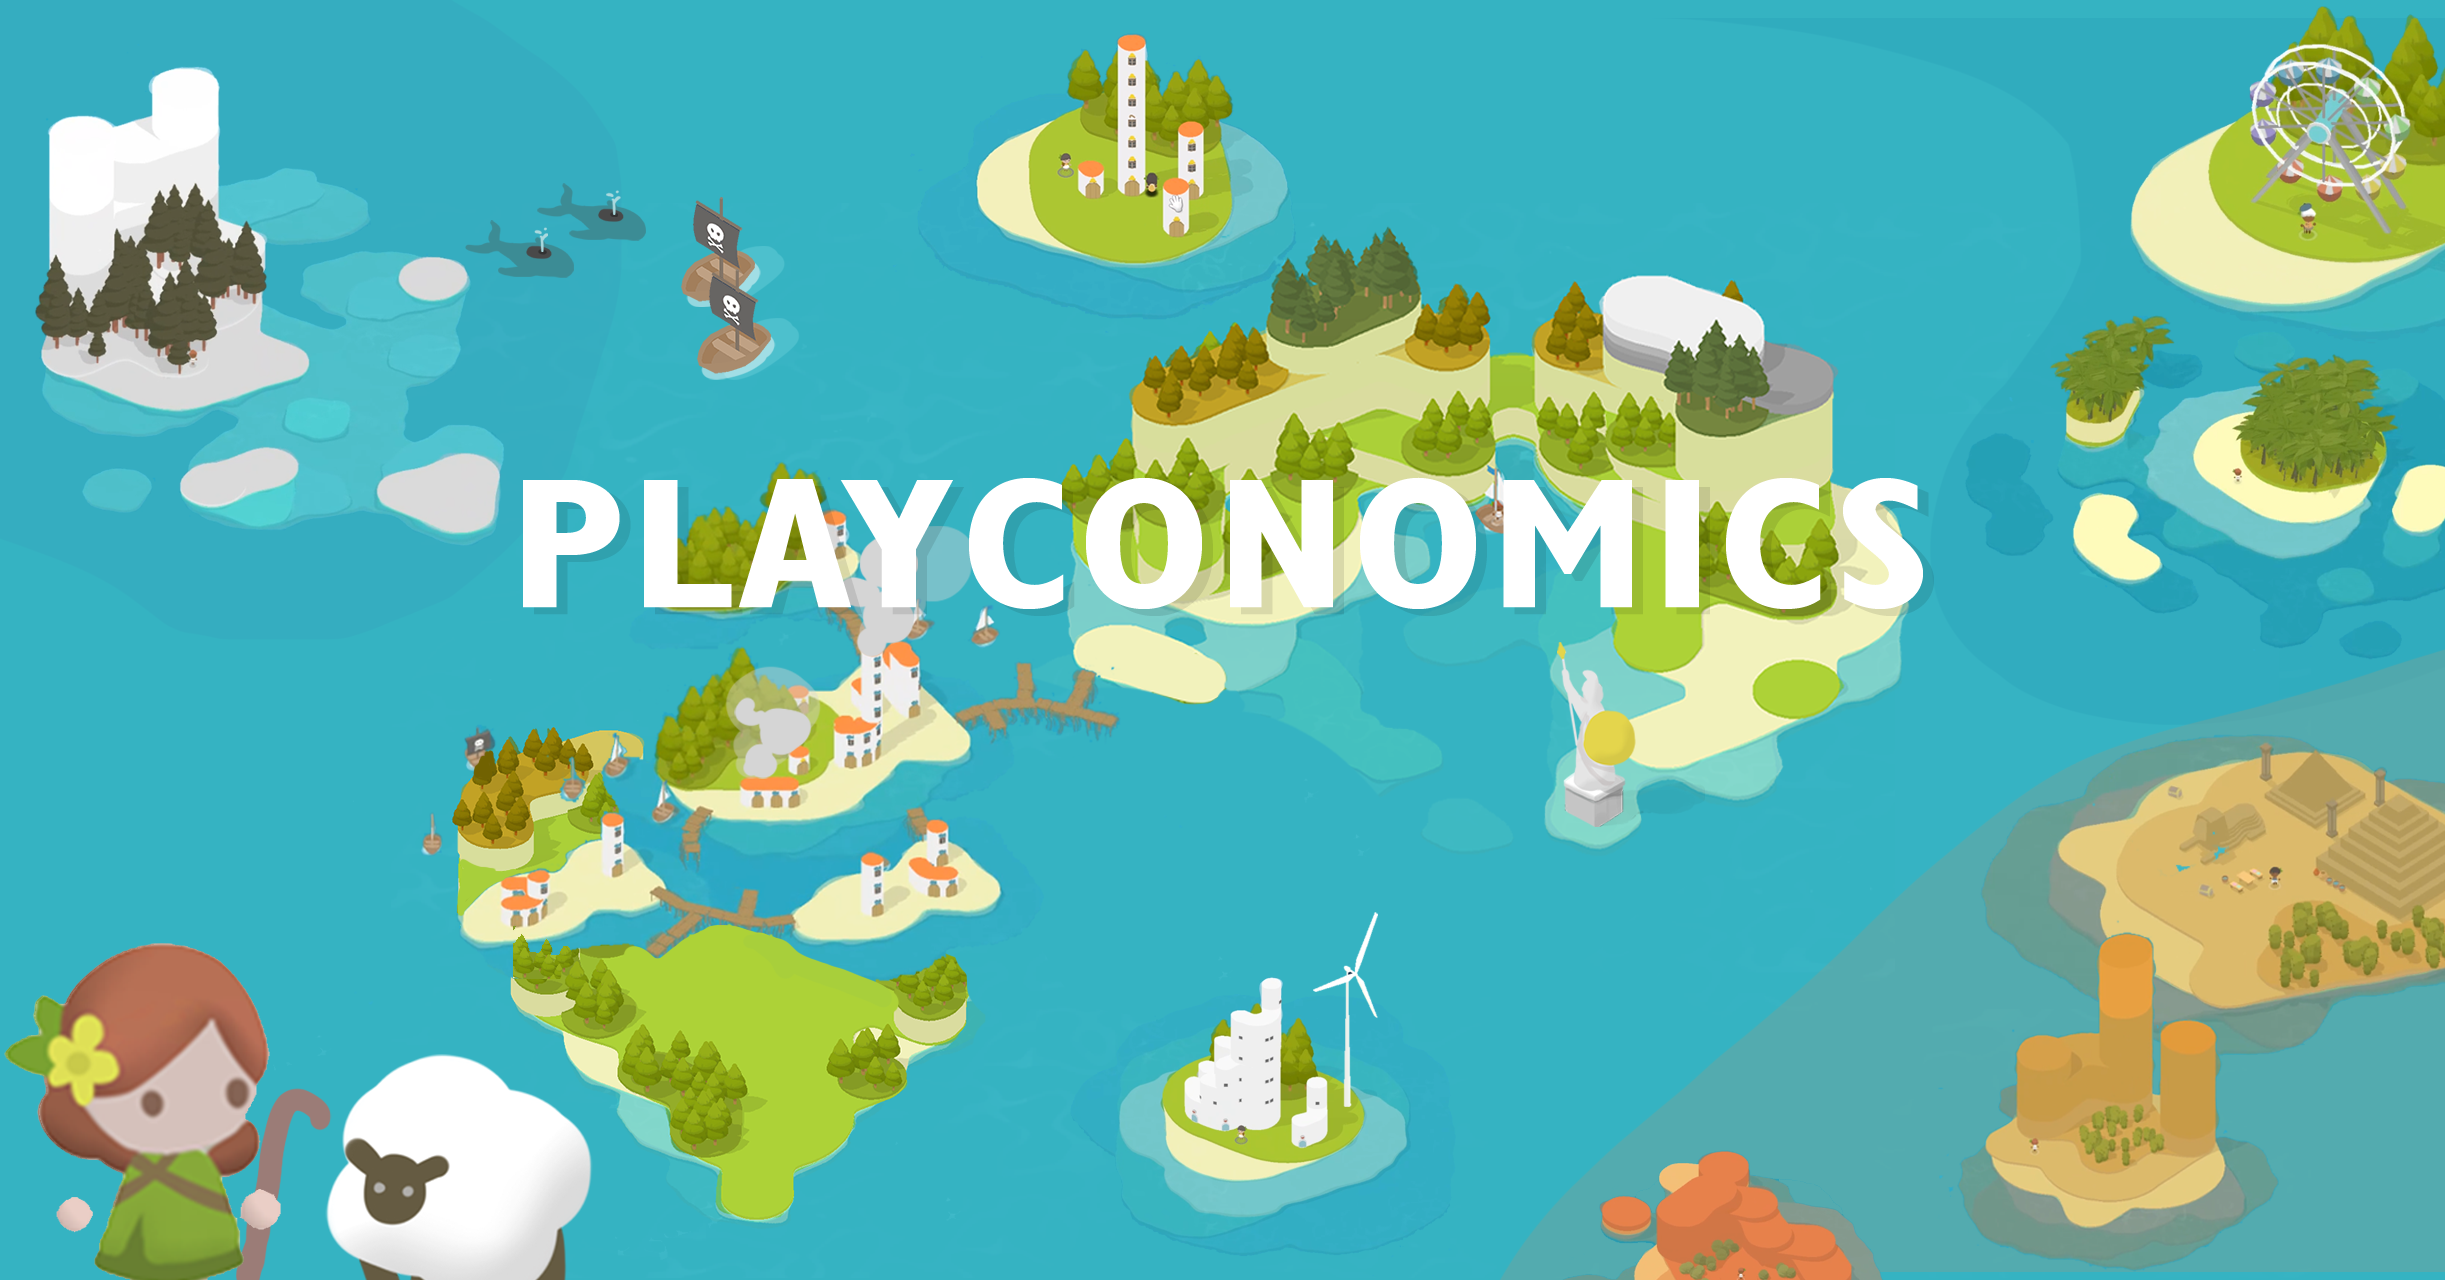
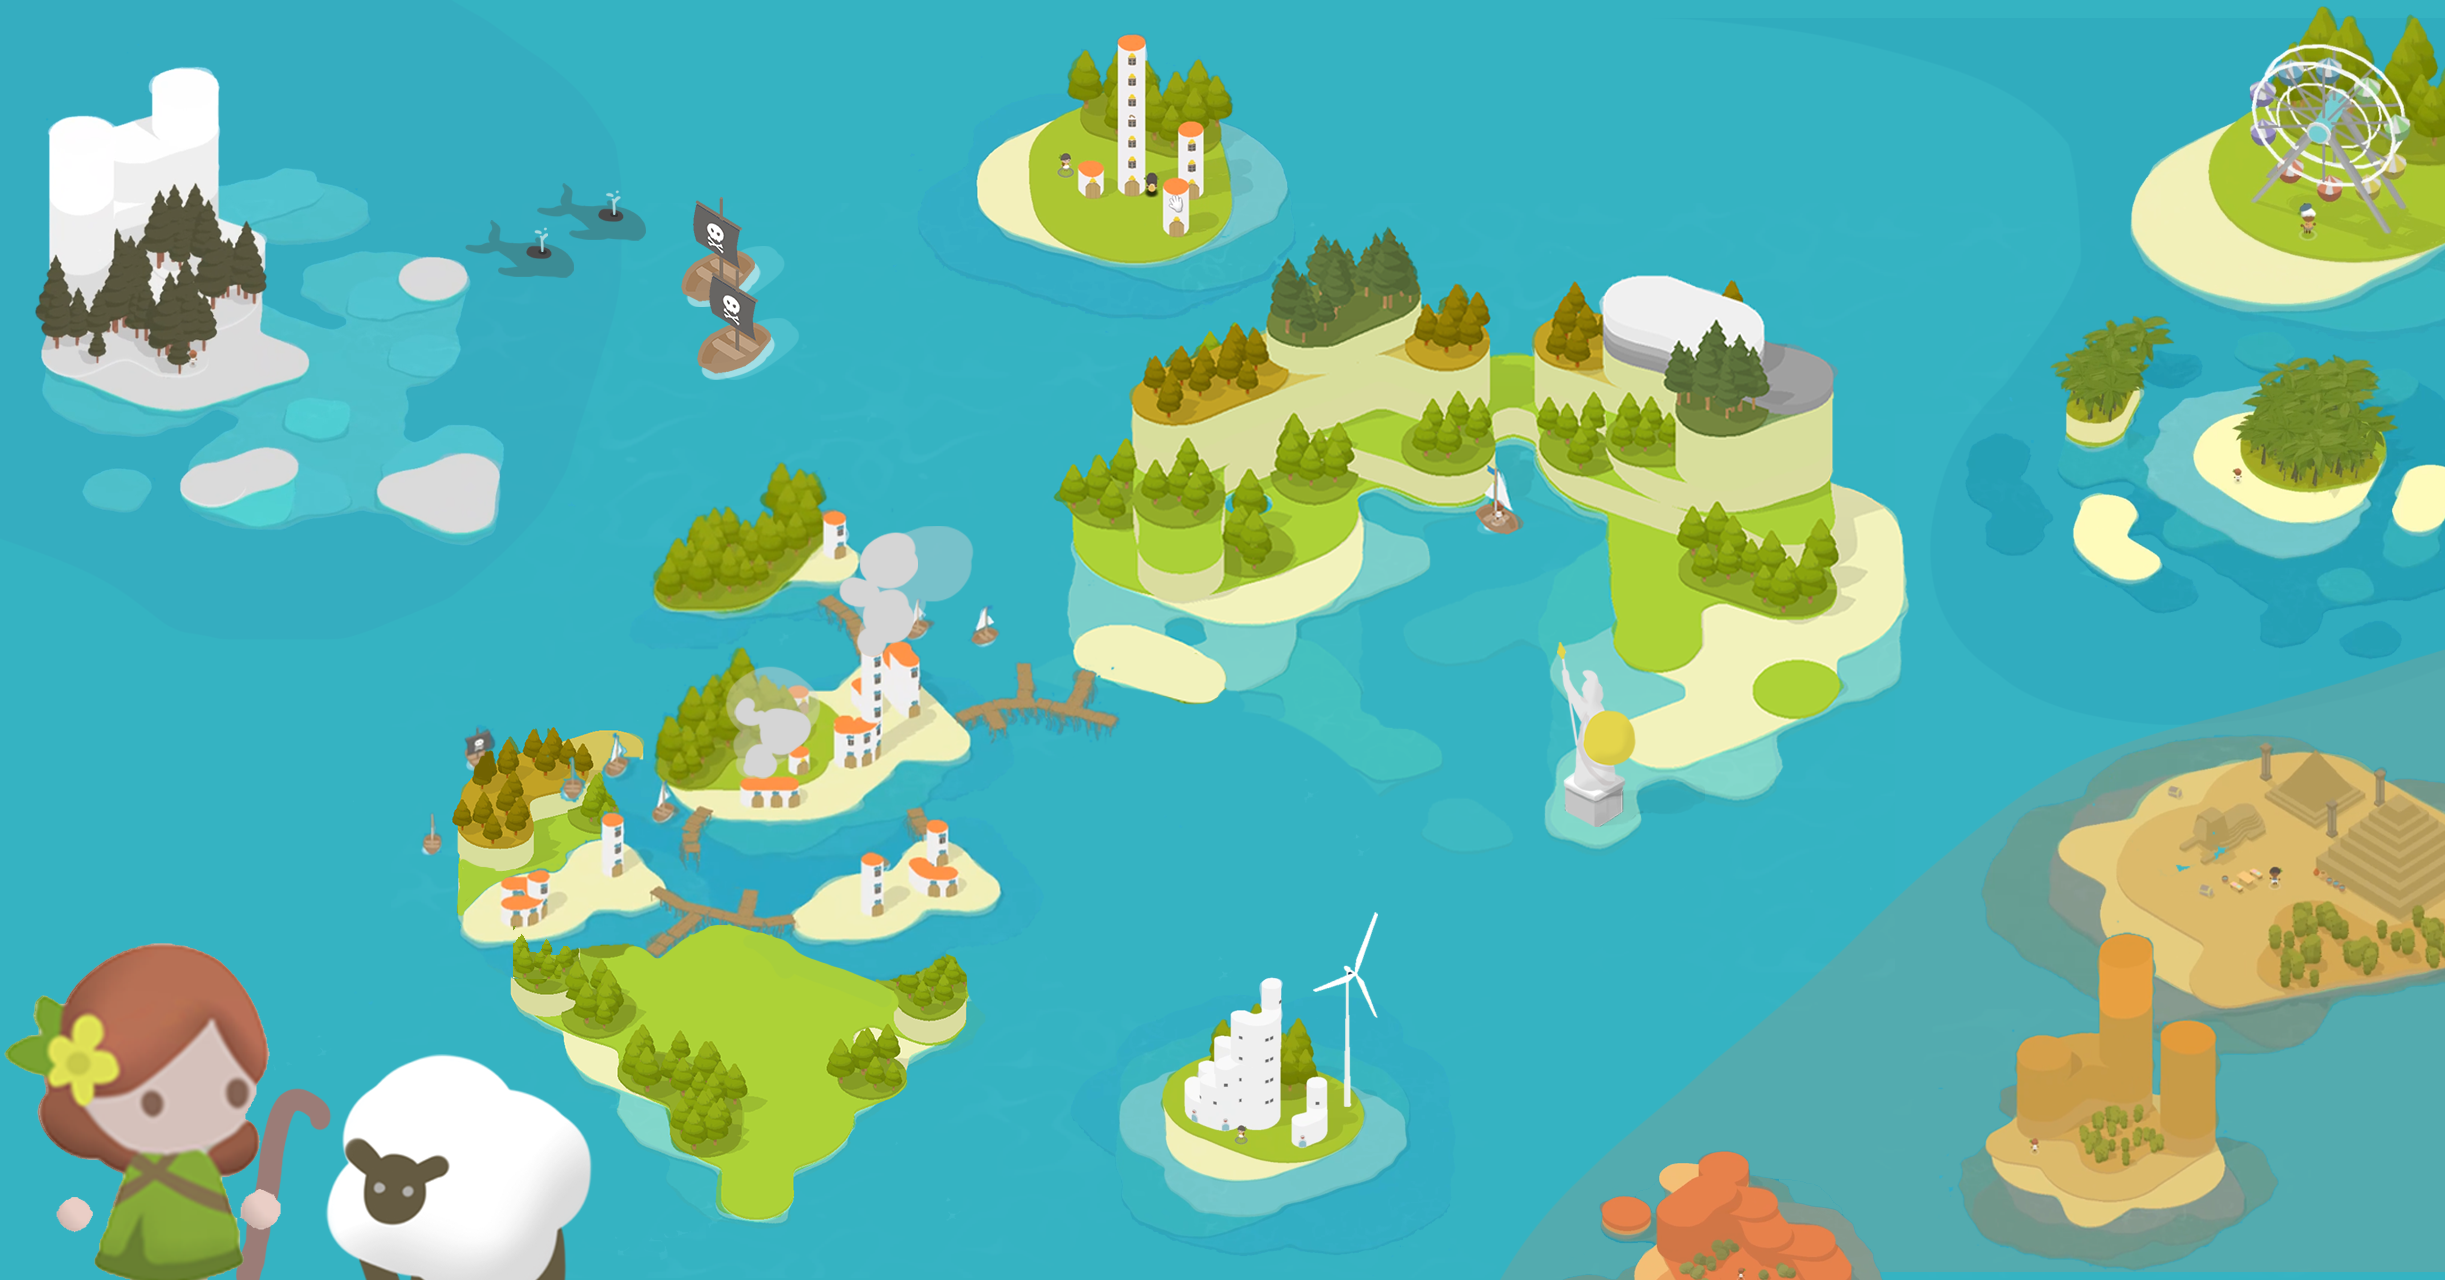
Amends.

Changed region(s): [[0.1865, 0.375, 0.8082, 0.5]]

diff --git a/src/pages/index.js b/src/pages/index.js
@@ -13,6 +13,7 @@ import Contact from "../components/Contact"
 import Footer from "../components/Footer"
 import coldVideo from "/src/assets/seasons_cold_temperate.mp4"
 import Website_Cover from "/src/assets/Website_Cover.png"
+import Playconomics_Text from "/src/assets/Playconomics_Text.png"
 import { Parallax } from "react-scroll-parallax";
 
 const IndexPage = ({ data }) => {
@@ -27,6 +28,9 @@ const IndexPage = ({ data }) => {
             {/*<h1 className="largePagename text-[10rem] text-white drop-shadow-sm mb-10">PLAYCONOMICS</h1>*/}
             <Parallax translateY={["-300px", "300px"]} className="absolute top-0 h-full w-full rounded z-[-1]">
               <img src={Website_Cover} alt="island2" className="w-full h-full object-cover object-center mt-[-50px]" />
+            </Parallax>
+            <Parallax translateY={["-200px", "500px"]} className="absolute top-0 rounded z-[-1]">
+             <img src={Playconomics_Text} alt="Playconomics" className="object-scale-down object-center" />
             </Parallax>
         </div>
         {content.map((link, index) => (
